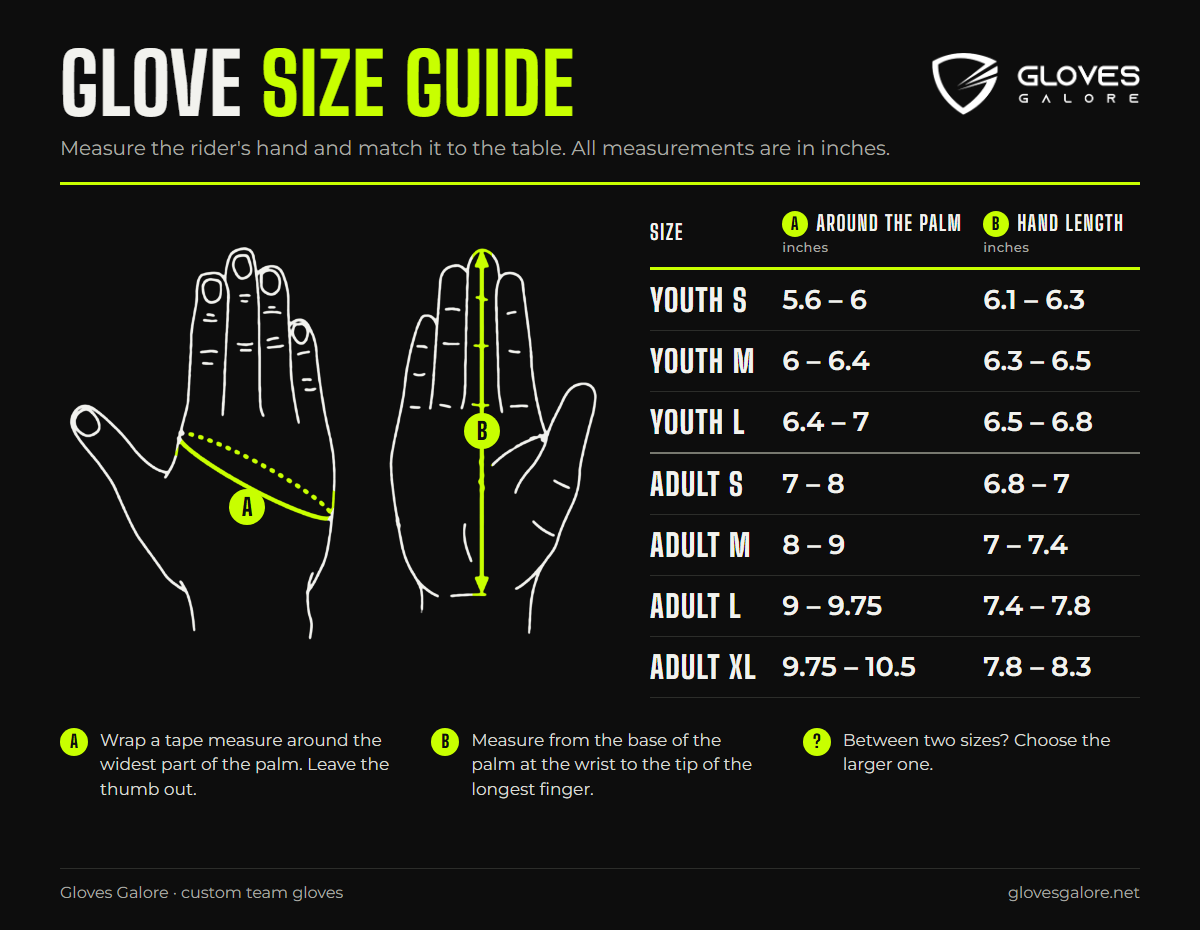
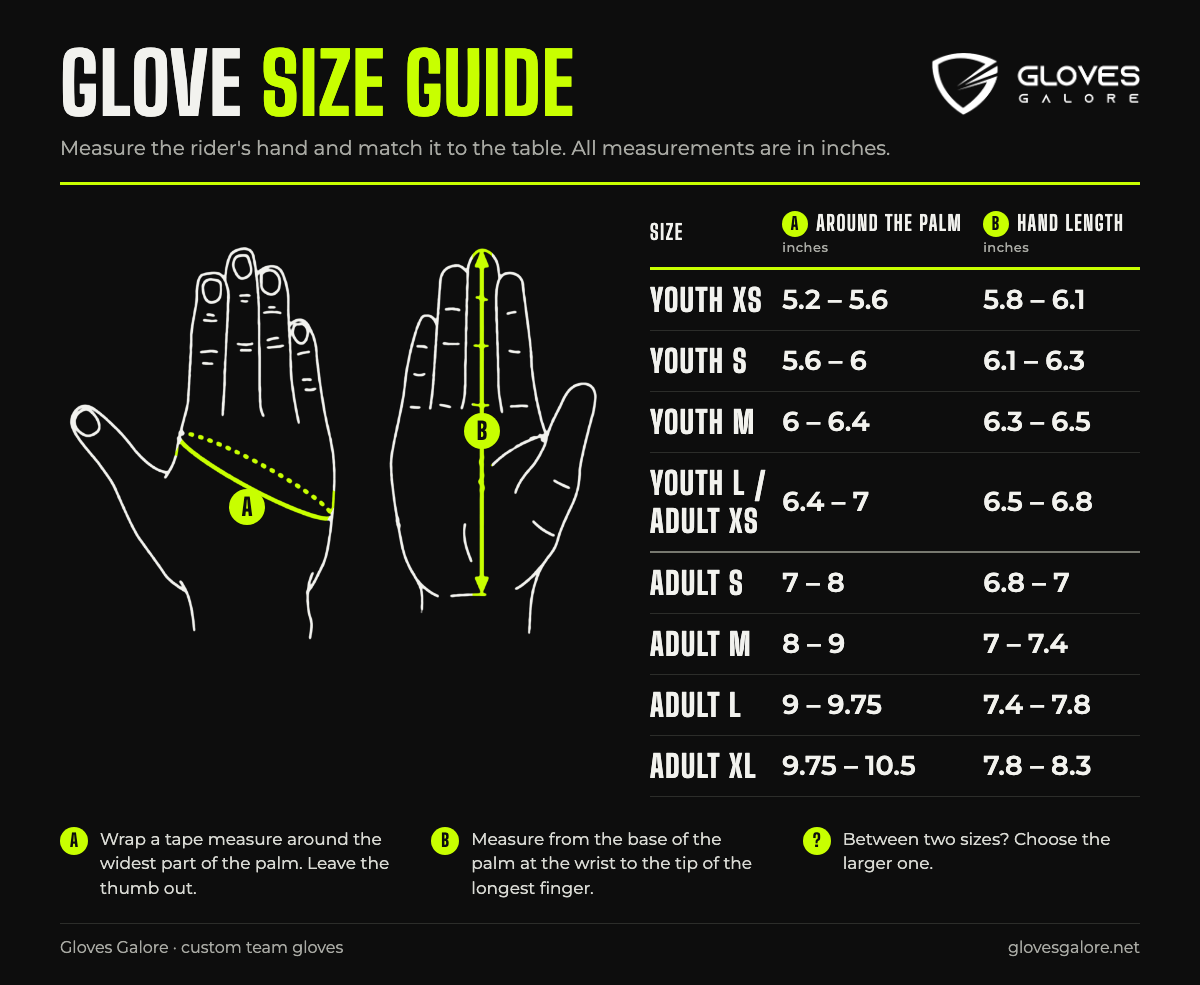
Green Dragons order page: Youth XS + Youth L / Adult XS, sizes-only mode (no prices), PayPal fee option

diff --git a/order.html b/order.html
@@ -146,15 +146,16 @@
                     </div>
                     <dl class="order-panel order-pricing" id="orderPricing" hidden></dl>
                     <div class="order-panel" id="orderGuide" hidden>
-                        <img src="assets/orders/size-guide.png" alt="Glove size guide: hand width and length for youth and adult sizes" width="1200" height="930" loading="lazy">
+                        <img src="assets/orders/size-guide.png" alt="Glove size guide: hand width and length for youth and adult sizes" width="1200" height="985" loading="lazy">
                     </div>
                     <div class="order-designs" id="orderDesigns" role="group" aria-label="Design" hidden></div>
                     <div id="orderSizes"></div>
 
-                    <dl class="order-summary">
+                    <dl class="order-summary" id="orderSummary">
                         <div><dt>Total pairs</dt><dd id="sumPairs">0</dd></div>
                         <div><dt>Price per pair</dt><dd id="sumPrice">-</dd></div>
                         <div id="sumExtrasRow" hidden><dt id="sumExtrasLabel"></dt><dd id="sumExtras"></dd></div>
+                        <div id="sumFeeRow" hidden><dt id="sumFeeLabel"></dt><dd id="sumFee"></dd></div>
                         <div class="order-summary-total"><dt>Order total</dt><dd id="sumTotal">-</dd></div>
                         <div>
                             <dt>Advance payment
@@ -178,6 +179,7 @@
                     <input type="hidden" name="sizes">
                     <input type="hidden" name="quantity">
                     <input type="hidden" name="price_per_pair">
+                    <input type="hidden" name="payment_fee">
                     <input type="hidden" name="order_total">
                     <input type="hidden" name="pay_now">
                     <input type="hidden" name="pay_before_shipping">
@@ -225,8 +227,8 @@
                 </form>
 
                 <div class="order-done" id="orderDone" hidden>
-                    <h3>Order received</h3>
-                    <dl class="order-summary">
+                    <h3 id="doneTitle">Order received</h3>
+                    <dl class="order-summary" id="doneSummary">
                         <div><dt>Order number</dt><dd id="doneNo"></dd></div>
                         <div><dt>Status</dt><dd>Waiting for payment</dd></div>
                         <div><dt>Due now</dt><dd id="doneDue"></dd></div>
@@ -452,7 +454,22 @@
         Object.entries(order.customer || {}).forEach(([name, v]) => {
             if (form.elements[name]) form.elements[name].value = v;
         });
+        // sizes only (orders.js "sizesOnly"): no prices or payment on the page, the price comes later by mail
+        if (order.sizesOnly) {
+            document.querySelector('[aria-controls="orderPricing"]').hidden = true;
+            [...$("orderSummary").children].slice(1).forEach((el) => { el.style.display = "none"; });
+            document.querySelector(".order-pay").remove();
+            document.querySelector(".order-agree span").textContent = "I checked the designs and the sizes.";
+            document.querySelector(".order-submit").textContent = "Send sizes";
+            $("doneTitle").textContent = "Sizes received";
+            [...$("doneSummary").children].slice(1).forEach((el) => { el.style.display = "none"; });
+        }
         form.addEventListener("submit", () => {
+            if (order.sizesOnly) {
+                $("doneNo").textContent = orderNo;
+                $("doneNext").textContent = "Thanks! We'll go through the sizes and get back to you by email within one working day.";
+                return;
+            }
             const method = form.elements.payment_method.value;
             $("doneNo").textContent = orderNo;
             $("doneDue").textContent = form.elements.pay_now.value;
@@ -467,13 +484,23 @@
             });
             const pairs = counts.reduce((a, [, , n]) => a + n, 0);
             const tier = [...tiers].reverse().find((t) => pairs >= t.min) || tiers[0];
-            const total = pairs ? pairs * tier.price + extrasTotal : 0;
+            // payment fee (orders.js "payFee"): added on top so the agreed amount still lands after the fee,
+            // rounded up to a whole dollar. PayPal JP: 4.10% + $0.30 (checked on the $60 sample invoice, fee $2.76)
+            const sub = pairs ? pairs * tier.price + extrasTotal : 0;
+            const pf = order.payFee;
+            const total = sub && pf ? Math.ceil((sub + pf.fixed) / (1 - pf.rate)) : sub;
+            const fee = Math.round((total - sub) * 100) / 100;
             const full = order.payInFull || total < terms.payInFullBelow;
             const now = full ? total : Math.round(total * terms.depositShare * 100) / 100;
             const later = Math.round((total - now) * 100) / 100;
 
             $("sumPairs").textContent = pairs;
             $("sumPrice").textContent = pairs ? money(tier.price) : "-";
+            if (pf) {
+                $("sumFeeRow").hidden = false;
+                $("sumFeeLabel").textContent = pf.label;
+                $("sumFee").textContent = pairs ? money(fee) : "-";
+            }
             $("sumTotal").textContent = pairs ? money(total) : "-";
             $("sumDeposit").textContent = pairs ? money(now) : "-";
 
@@ -488,6 +515,7 @@
             });
             set("quantity", pairs);
             set("price_per_pair", pairs ? money(tier.price) : "");
+            set("payment_fee", pairs && pf ? money(fee) : "");
             set("order_total", pairs ? money(total) : "");
             set("pay_now", pairs ? money(now) : "");
             set("pay_before_shipping", pairs ? money(later) : "");

diff --git a/orders.js b/orders.js
@@ -47,13 +47,18 @@ window.GG_ORDERS = {
             { name: "Volt Flame", images: [{ src: "assets/orders/green-dragons/volt-2.jpg", label: "Volt Flame, back of hand" }] },
             { name: "Venom", images: [{ src: "assets/orders/green-dragons/venom-2.jpg", label: "Venom, back of hand" }] },
         ],
-        sizes: ["Youth S", "Youth M", "Youth L", "Adult S", "Adult M", "Adult L", "Adult XL"],
+        // Youth XS added and Youth L shown as "Youth L / Adult XS" (Richard needs XS, 2026-11-18)
+        sizes: ["Youth XS", "Youth S", "Youth M", "Youth L / Adult XS", "Adult S", "Adult M", "Adult L", "Adult XL"],
         // agreed 2026-10-14: $12 a pair for the 40-pair order
         tiers: [{ min: 1, price: 12 }],
         // sample shipping $60 paid by PayPal 2026-11-09 (to Israr Iqbal), so no extras
         // he asked to pay for all of it at once (WhatsApp 2026-11-09)
         payInFull: true,
         payMethods: ["PayPal"],
+        // PayPal fee added on top so the full $12 a pair lands (his call 2026-11-18)
+        payFee: { label: "PayPal fee", rate: 0.041, fixed: 0.30 },
+        // sizes only for now: no prices or payment on the page, price + invoice sent later (his call 2026-11-18)
+        sizesOnly: true,
         // filled in on the page, he can still change them
         customer: {
             name: "Richard Lamb",

diff --git a/tools/make-order-page.py b/tools/make-order-page.py
@@ -68,15 +68,16 @@ PAGE = f"""<!DOCTYPE html>
                     </div>
                     <dl class="order-panel order-pricing" id="orderPricing" hidden></dl>
                     <div class="order-panel" id="orderGuide" hidden>
-                        <img src="assets/orders/size-guide.png" alt="Glove size guide: hand width and length for youth and adult sizes" width="1200" height="930" loading="lazy">
+                        <img src="assets/orders/size-guide.png" alt="Glove size guide: hand width and length for youth and adult sizes" width="1200" height="985" loading="lazy">
                     </div>
                     <div class="order-designs" id="orderDesigns" role="group" aria-label="Design" hidden></div>
                     <div id="orderSizes"></div>
 
-                    <dl class="order-summary">
+                    <dl class="order-summary" id="orderSummary">
                         <div><dt>Total pairs</dt><dd id="sumPairs">0</dd></div>
                         <div><dt>Price per pair</dt><dd id="sumPrice">-</dd></div>
                         <div id="sumExtrasRow" hidden><dt id="sumExtrasLabel"></dt><dd id="sumExtras"></dd></div>
+                        <div id="sumFeeRow" hidden><dt id="sumFeeLabel"></dt><dd id="sumFee"></dd></div>
                         <div class="order-summary-total"><dt>Order total</dt><dd id="sumTotal">-</dd></div>
                         <div>
                             <dt>Advance payment
@@ -100,6 +101,7 @@ PAGE = f"""<!DOCTYPE html>
                     <input type="hidden" name="sizes">
                     <input type="hidden" name="quantity">
                     <input type="hidden" name="price_per_pair">
+                    <input type="hidden" name="payment_fee">
                     <input type="hidden" name="order_total">
                     <input type="hidden" name="pay_now">
                     <input type="hidden" name="pay_before_shipping">
@@ -147,8 +149,8 @@ PAGE = f"""<!DOCTYPE html>
                 </form>
 
                 <div class="order-done" id="orderDone" hidden>
-                    <h3>Order received</h3>
-                    <dl class="order-summary">
+                    <h3 id="doneTitle">Order received</h3>
+                    <dl class="order-summary" id="doneSummary">
                         <div><dt>Order number</dt><dd id="doneNo"></dd></div>
                         <div><dt>Status</dt><dd>Waiting for payment</dd></div>
                         <div><dt>Due now</dt><dd id="doneDue"></dd></div>
@@ -317,7 +319,22 @@ PAGE = f"""<!DOCTYPE html>
         Object.entries(order.customer || {{}}).forEach(([name, v]) => {{
             if (form.elements[name]) form.elements[name].value = v;
         }});
+        // sizes only (orders.js "sizesOnly"): no prices or payment on the page, the price comes later by mail
+        if (order.sizesOnly) {{
+            document.querySelector('[aria-controls="orderPricing"]').hidden = true;
+            [...$("orderSummary").children].slice(1).forEach((el) => {{ el.style.display = "none"; }});
+            document.querySelector(".order-pay").remove();
+            document.querySelector(".order-agree span").textContent = "I checked the designs and the sizes.";
+            document.querySelector(".order-submit").textContent = "Send sizes";
+            $("doneTitle").textContent = "Sizes received";
+            [...$("doneSummary").children].slice(1).forEach((el) => {{ el.style.display = "none"; }});
+        }}
         form.addEventListener("submit", () => {{
+            if (order.sizesOnly) {{
+                $("doneNo").textContent = orderNo;
+                $("doneNext").textContent = "Thanks! We'll go through the sizes and get back to you by email within one working day.";
+                return;
+            }}
             const method = form.elements.payment_method.value;
             $("doneNo").textContent = orderNo;
             $("doneDue").textContent = form.elements.pay_now.value;
@@ -332,13 +349,23 @@ PAGE = f"""<!DOCTYPE html>
             }});
             const pairs = counts.reduce((a, [, , n]) => a + n, 0);
             const tier = [...tiers].reverse().find((t) => pairs >= t.min) || tiers[0];
-            const total = pairs ? pairs * tier.price + extrasTotal : 0;
+            // payment fee (orders.js "payFee"): added on top so the agreed amount still lands after the fee,
+            // rounded up to a whole dollar. PayPal JP: 4.10% + $0.30 (checked on the $60 sample invoice, fee $2.76)
+            const sub = pairs ? pairs * tier.price + extrasTotal : 0;
+            const pf = order.payFee;
+            const total = sub && pf ? Math.ceil((sub + pf.fixed) / (1 - pf.rate)) : sub;
+            const fee = Math.round((total - sub) * 100) / 100;
             const full = order.payInFull || total < terms.payInFullBelow;
             const now = full ? total : Math.round(total * terms.depositShare * 100) / 100;
             const later = Math.round((total - now) * 100) / 100;
 
             $("sumPairs").textContent = pairs;
             $("sumPrice").textContent = pairs ? money(tier.price) : "-";
+            if (pf) {{
+                $("sumFeeRow").hidden = false;
+                $("sumFeeLabel").textContent = pf.label;
+                $("sumFee").textContent = pairs ? money(fee) : "-";
+            }}
             $("sumTotal").textContent = pairs ? money(total) : "-";
             $("sumDeposit").textContent = pairs ? money(now) : "-";
 
@@ -353,6 +380,7 @@ PAGE = f"""<!DOCTYPE html>
             }});
             set("quantity", pairs);
             set("price_per_pair", pairs ? money(tier.price) : "");
+            set("payment_fee", pairs && pf ? money(fee) : "");
             set("order_total", pairs ? money(total) : "");
             set("pay_now", pairs ? money(now) : "");
             set("pay_before_shipping", pairs ? money(later) : "");
